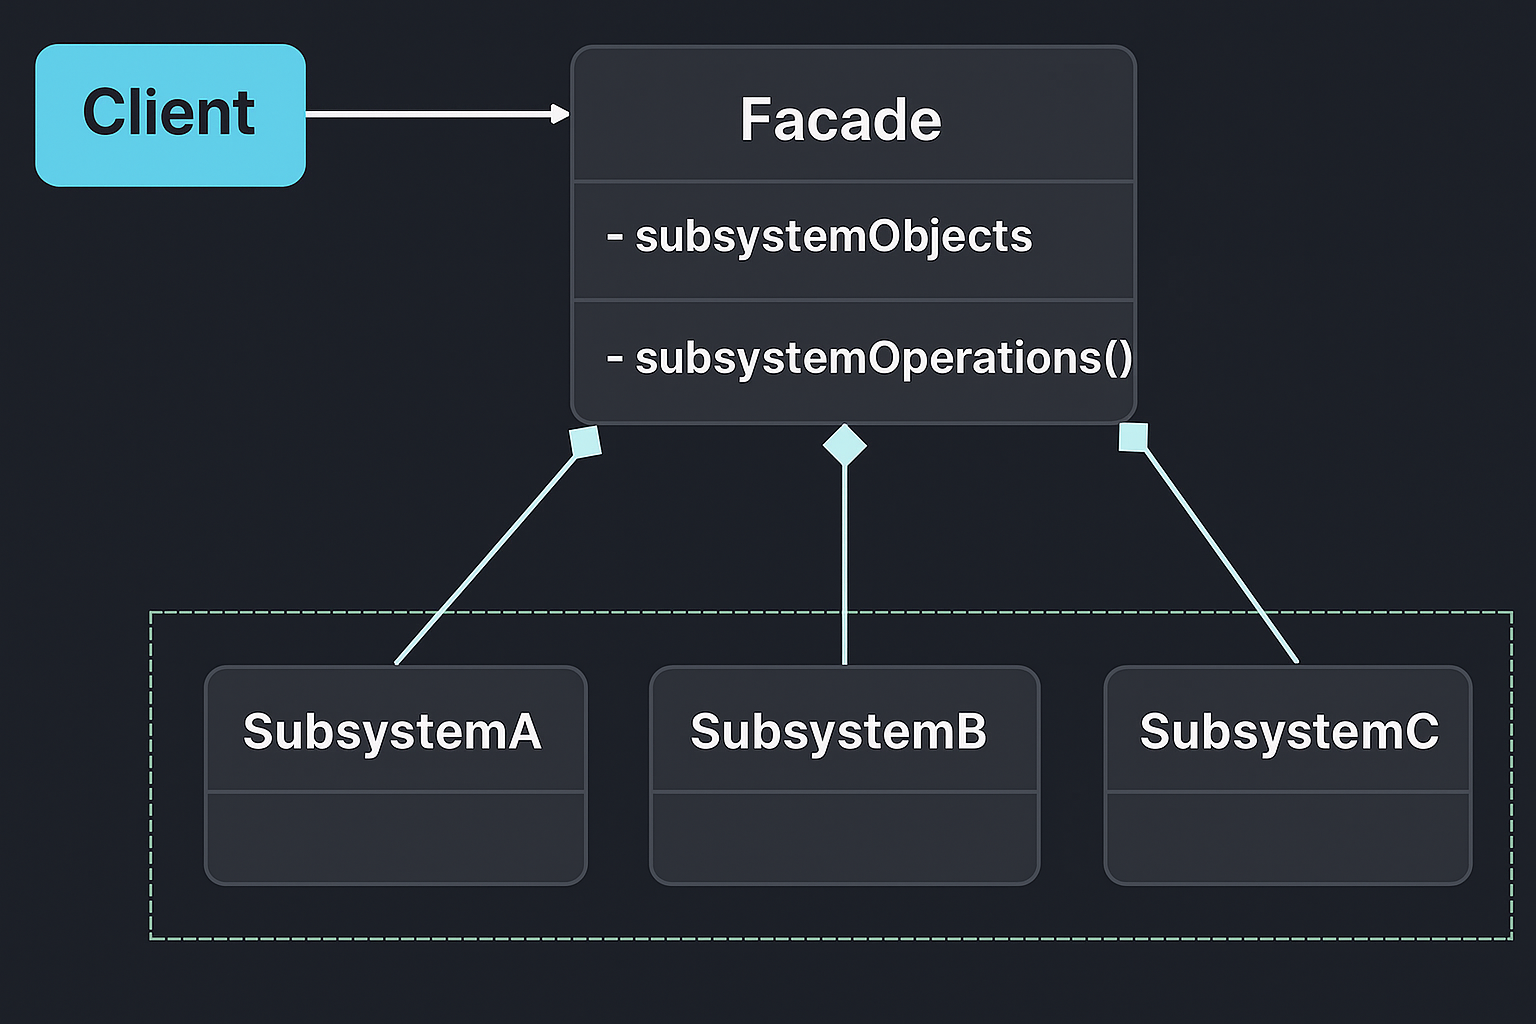
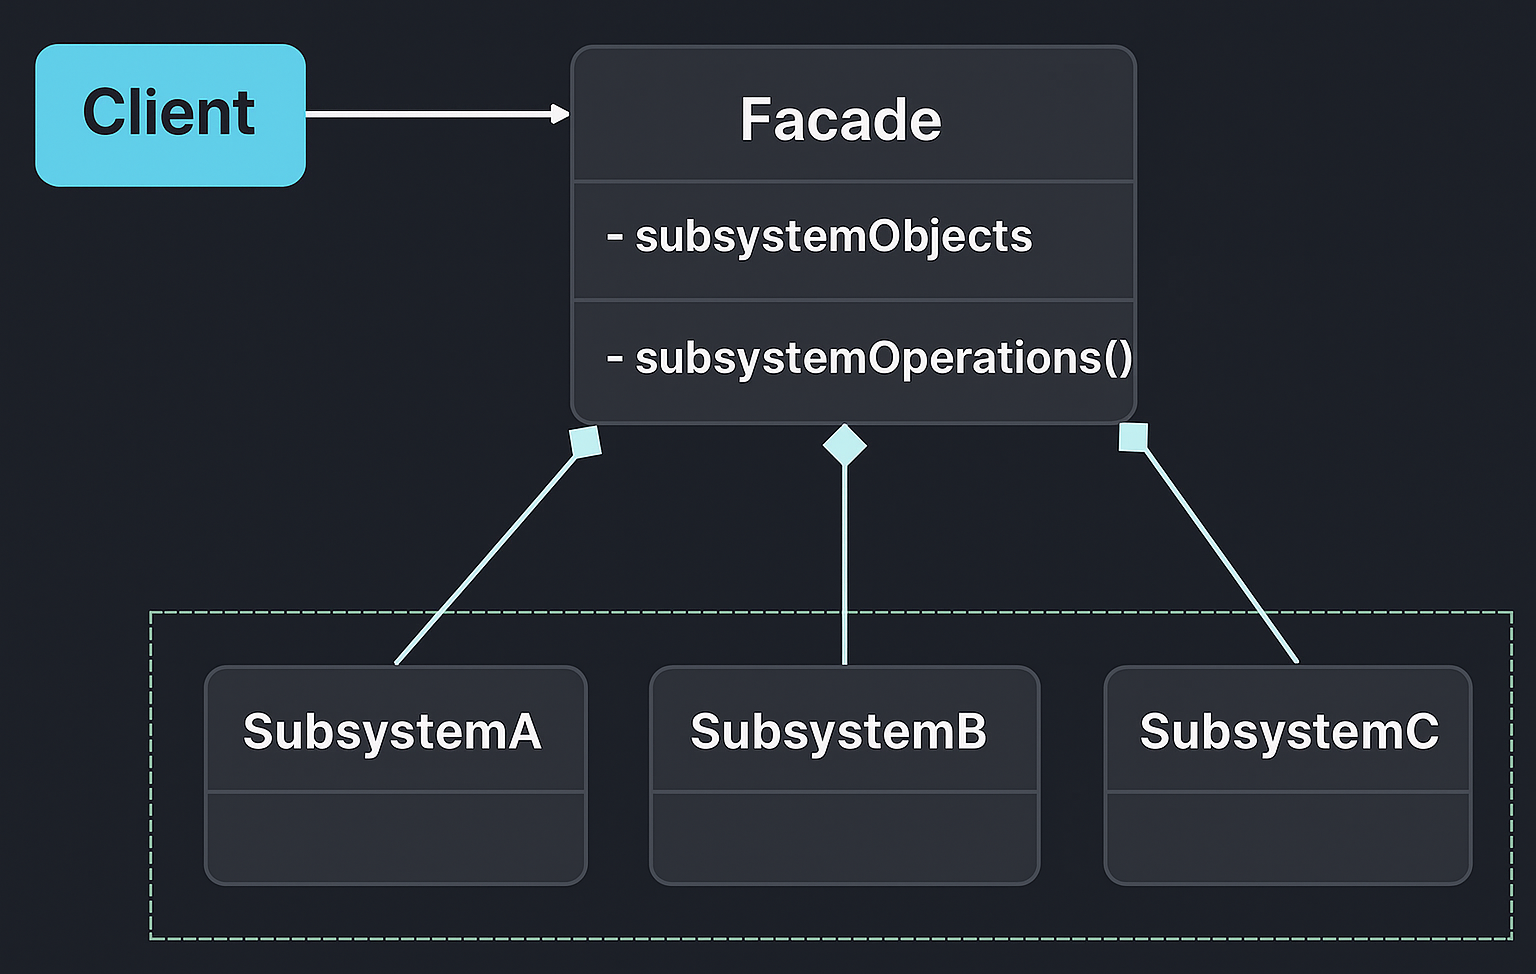
Added Decorator Pattern

diff --git a/DesignPatterns/StructuralPattern/Decorator/Solution/Client.java b/DesignPatterns/StructuralPattern/Decorator/Solution/Client.java
@@ -1,0 +1,26 @@
+package DesignPatterns.StructuralPattern.Decorator.Solution;
+
+/**
+ * Demonstrates different wrapping orders and resulting costs.
+ */
+public class Client {
+    public static void main(String[] args) {
+        Order base = new BasicOrder(1000.0);
+
+        // Case A: Discount -> Tax -> GiftWrap
+        Order caseA = new GiftWrapDecorator(new TaxDecorator(new DiscountDecorator(base, 10.0), 18.0));
+        System.out.println(caseA.getDescription() + " -> ₹" + caseA.getCost());
+
+        // Case B: Tax -> Discount -> GiftWrap
+        Order caseB = new GiftWrapDecorator(new DiscountDecorator(new TaxDecorator(base, 18.0), 10.0));
+        System.out.println(caseB.getDescription() + " -> ₹" + caseB.getCost());
+
+        // Case C: GiftWrap -> Discount -> Tax
+        Order caseC = new TaxDecorator(new DiscountDecorator(new GiftWrapDecorator(base), 10.0), 18.0);
+        System.out.println(caseC.getDescription() + " -> ₹" + caseC.getCost());
+
+        // Case D: Tax -> GiftWrap -> Discount
+        Order caseD = new DiscountDecorator(new GiftWrapDecorator(new TaxDecorator(base, 18.0)), 10.0);
+        System.out.println(caseD.getDescription() + " -> ₹" + caseD.getCost());
+    }
+}

diff --git a/DesignPatterns/StructuralPattern/Decorator/Problem/Client.java b/DesignPatterns/StructuralPattern/Decorator/Problem/Client.java
@@ -1,0 +1,18 @@
+/**
+ * Demonstrates the subclass explosion problem.
+ */
+public class Client {
+    public static void main(String[] args) {
+        BasicOrder o1 = new BasicOrder(1000.0);
+        GiftWrappedOrder o2 = new GiftWrappedOrder(1000.0);
+        ExpressShippingOrder o3 = new ExpressShippingOrder(1000.0);
+        DiscountedOrder o4 = new DiscountedOrder(1000.0);
+
+        System.out.println(o1.getDescription() + " -> ₹" + o1.getCost());
+        System.out.println(o2.getDescription() + " -> ₹" + o2.getCost());
+        System.out.println(o3.getDescription() + " -> ₹" + o3.getCost());
+        System.out.println(o4.getDescription() + " -> ₹" + o4.getCost());
+
+        // To represent GiftWrapped + Express + Discount we'd need another subclass - explosion
+    }
+}

diff --git a/DesignPatterns/StructuralPattern/Decorator/Solution/DiscountDecorator.java b/DesignPatterns/StructuralPattern/Decorator/Solution/DiscountDecorator.java
@@ -1,0 +1,24 @@
+package DesignPatterns.StructuralPattern.Decorator.Solution;
+
+/**
+ * Concrete Decorator applying a percentage discount.
+ * Note: discount is applied to the cost returned by wrapped component.
+ */
+public class DiscountDecorator extends OrderDecorator {
+    private final double percent; // e.g., 10 for 10%
+
+    public DiscountDecorator(Order order, double percent) {
+        super(order);
+        this.percent = percent;
+    }
+
+    @Override
+    public double getCost() {
+        return super.getCost() * (1 - percent / 100.0);
+    }
+
+    @Override
+    public String getDescription() {
+        return super.getDescription() + ", " + percent + "% Discount Applied";
+    }
+}

diff --git a/DesignPatterns/StructuralPattern/Decorator/Solution/TaxDecorator.java b/DesignPatterns/StructuralPattern/Decorator/Solution/TaxDecorator.java
@@ -1,0 +1,24 @@
+package DesignPatterns.StructuralPattern.Decorator.Solution;
+
+/**
+ * Concrete Decorator adding tax percentage (e.g., GST 18%).
+ * Tax is applied on the cost returned by wrapped component.
+ */
+public class TaxDecorator extends OrderDecorator {
+    private final double taxPercent;
+
+    public TaxDecorator(Order order, double taxPercent) {
+        super(order);
+        this.taxPercent = taxPercent;
+    }
+
+    @Override
+    public double getCost() {
+        return super.getCost() * (1 + taxPercent / 100.0);
+    }
+
+    @Override
+    public String getDescription() {
+        return super.getDescription() + ", Tax " + taxPercent + "%";
+    }
+}

diff --git a/DesignPatterns/StructuralPattern/Decorator/Problem/BasicOrder.java b/DesignPatterns/StructuralPattern/Decorator/Problem/BasicOrder.java
@@ -1,0 +1,20 @@
+/**
+ * Problem: Subclass explosion when trying to combine features via inheritance.
+ * For example, to support GiftWrap + ExpressShipping + Discount combinations,
+ * you would need many subclasses like GiftWrapExpressDiscountOrder etc.
+ */
+public class BasicOrder {
+    private double basePrice;
+
+    public BasicOrder(double basePrice) {
+        this.basePrice = basePrice;
+    }
+
+    public double getCost() {
+        return basePrice;
+    }
+
+    public String getDescription() {
+        return "Basic Order";
+    }
+}

diff --git a/DesignPatterns/StructuralPattern/Decorator/Solution/ExpressShippingDecorator.java b/DesignPatterns/StructuralPattern/Decorator/Solution/ExpressShippingDecorator.java
@@ -1,0 +1,20 @@
+package DesignPatterns.StructuralPattern.Decorator.Solution;
+
+/**
+ * Concrete Decorator adding express shipping cost.
+ */
+public class ExpressShippingDecorator extends OrderDecorator {
+    public ExpressShippingDecorator(Order order) {
+        super(order);
+    }
+
+    @Override
+    public double getCost() {
+        return super.getCost() + 150.0;
+    }
+
+    @Override
+    public String getDescription() {
+        return super.getDescription() + ", Express Shipping";
+    }
+}

diff --git a/DesignPatterns/StructuralPattern/Decorator/Solution/OrderDecorator.java b/DesignPatterns/StructuralPattern/Decorator/Solution/OrderDecorator.java
@@ -1,0 +1,22 @@
+package DesignPatterns.StructuralPattern.Decorator.Solution;
+
+/**
+ * Abstract Decorator that wraps an Order.
+ */
+public abstract class OrderDecorator implements Order {
+    protected final Order order;
+
+    protected OrderDecorator(Order order) {
+        this.order = order;
+    }
+
+    @Override
+    public double getCost() {
+        return order.getCost();
+    }
+
+    @Override
+    public String getDescription() {
+        return order.getDescription();
+    }
+}

diff --git a/DesignPatterns/StructuralPattern/Decorator/Solution/BasicOrder.java b/DesignPatterns/StructuralPattern/Decorator/Solution/BasicOrder.java
@@ -1,0 +1,22 @@
+package DesignPatterns.StructuralPattern.Decorator.Solution;
+
+/**
+ * Concrete Component: base order implementation.
+ */
+public class BasicOrder implements Order {
+    private final double basePrice;
+
+    public BasicOrder(double basePrice) {
+        this.basePrice = basePrice;
+    }
+
+    @Override
+    public double getCost() {
+        return basePrice;
+    }
+
+    @Override
+    public String getDescription() {
+        return "Basic Order";
+    }
+}

diff --git a/DesignPatterns/StructuralPattern/Decorator/Solution/GiftWrapDecorator.java b/DesignPatterns/StructuralPattern/Decorator/Solution/GiftWrapDecorator.java
@@ -1,0 +1,20 @@
+package DesignPatterns.StructuralPattern.Decorator.Solution;
+
+/**
+ * Concrete Decorator adding gift wrap cost.
+ */
+public class GiftWrapDecorator extends OrderDecorator {
+    public GiftWrapDecorator(Order order) {
+        super(order);
+    }
+
+    @Override
+    public double getCost() {
+        return super.getCost() + 50.0;
+    }
+
+    @Override
+    public String getDescription() {
+        return super.getDescription() + ", Gift Wrapped";
+    }
+}

diff --git a/DesignPatterns/StructuralPattern/Decorator/Problem/ExpressShippingOrder.java b/DesignPatterns/StructuralPattern/Decorator/Problem/ExpressShippingOrder.java
@@ -1,0 +1,18 @@
+/**
+ * A naive subclass adding express shipping feature.
+ */
+public class ExpressShippingOrder extends BasicOrder {
+    public ExpressShippingOrder(double basePrice) {
+        super(basePrice);
+    }
+
+    @Override
+    public double getCost() {
+        return super.getCost() + 150.0;
+    }
+
+    @Override
+    public String getDescription() {
+        return super.getDescription() + ", Express Shipping";
+    }
+}

diff --git a/DesignPatterns/StructuralPattern/Decorator/Problem/DiscountedOrder.java b/DesignPatterns/StructuralPattern/Decorator/Problem/DiscountedOrder.java
@@ -1,0 +1,18 @@
+/**
+ * A naive subclass adding discount feature.
+ */
+public class DiscountedOrder extends BasicOrder {
+    public DiscountedOrder(double basePrice) {
+        super(basePrice);
+    }
+
+    @Override
+    public double getCost() {
+        return super.getCost() * 0.9; // 10% discount
+    }
+
+    @Override
+    public String getDescription() {
+        return super.getDescription() + ", 10% Discount";
+    }
+}

diff --git a/DesignPatterns/StructuralPattern/Decorator/Problem/GiftWrappedOrder.java b/DesignPatterns/StructuralPattern/Decorator/Problem/GiftWrappedOrder.java
@@ -1,0 +1,18 @@
+/**
+ * A naive subclass adding gift wrap feature.
+ */
+public class GiftWrappedOrder extends BasicOrder {
+    public GiftWrappedOrder(double basePrice) {
+        super(basePrice);
+    }
+
+    @Override
+    public double getCost() {
+        return super.getCost() + 50.0;
+    }
+
+    @Override
+    public String getDescription() {
+        return super.getDescription() + ", Gift Wrapped";
+    }
+}
